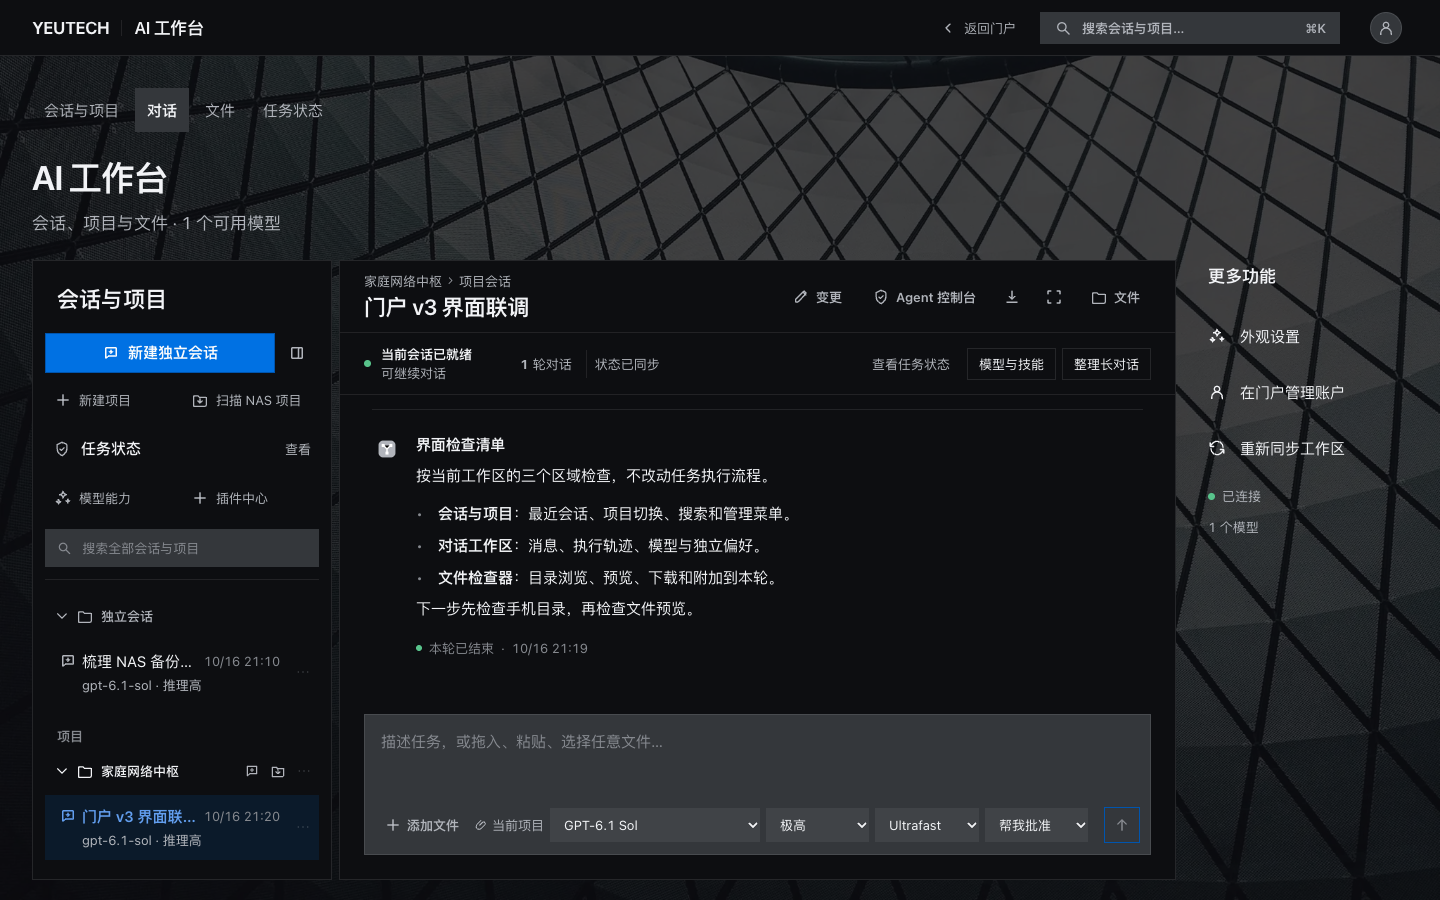
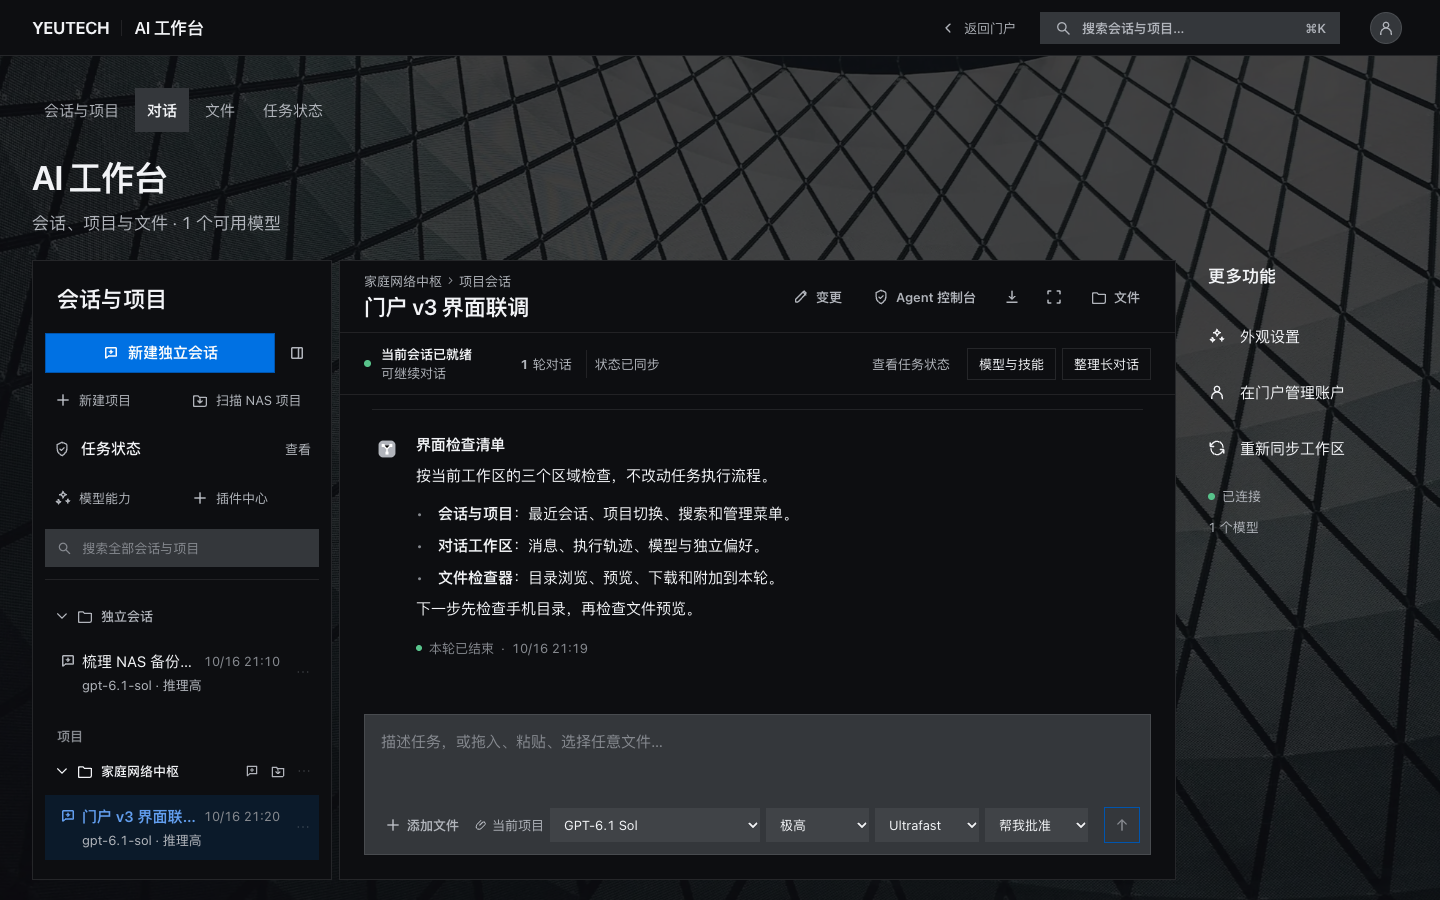
fix(app): match portal PageShell wallpaper treatment

diff --git a/deploy/yeutech-agent-isolated/web/src/styles/workspace-v33.css b/deploy/yeutech-agent-isolated/web/src/styles/workspace-v33.css
@@ -1,6 +1,6 @@
 /* v3.3 HomeWorkspaceShell geometry; canonical material definitions are read-only.
    Header=chrome; directory/conversation=sibling surface; inner rows=material/control. */
-.workspace-v33::before { display: block; }
+.workspace-v33::before { display: block; filter: blur(var(--yt-blur)) saturate(40%); transform: scale(1.04); }
 .workspace-v33 { overflow: clip; }
 .workspace-v33 .workspace { height: auto; min-height: 0; max-width: 2400px; padding: 32px; gap: 0; }
 .workspace-v33 .workbench-identity { position: sticky; top: 0; z-index: 30; min-height: 56px; padding: 0 32px; display: flex; align-items: center; justify-content: space-between; gap: 16px; border-bottom: 1px solid var(--yt-edge); background: var(--yt-layer-chrome); -webkit-backdrop-filter: var(--yt-filter-chrome); backdrop-filter: var(--yt-filter-chrome); box-shadow: none; }
@@ -108,3 +108,6 @@
 @media (prefers-reduced-transparency: reduce), (prefers-contrast: more) {
   .workspace-v33 :is(.workbench-identity, .sidebar, .conversation, .file-layer .file-panel) { background: var(--yt-layer-page); -webkit-backdrop-filter: none; backdrop-filter: none; }
 }
+
+/* Match the portal PageShell wallpaper accessibility override exactly. */
+@media (prefers-reduced-transparency: reduce) { .workspace-v33::before { filter: none; } }

diff --git a/docs/qa-v33/HANDOFF.md b/docs/qa-v33/HANDOFF.md
@@ -81,3 +81,10 @@ Browser plugin/skill not available；`agent-browser` CLI也未安装。按fronte
 
 ## 未验证
 真实生产登录/权限角色、真实模型/项目写入、NAS、真实断线重连、所有Office/PDF/图片内容、真机Safari与发布后资源/缓存均未验；原实现保留不等于这些验收已通过。没有部署、线上完成或作者采纳声明。
+
+## 补充核查：PageShell 壁纸（2026-10-16）
+- 复核门户`primitives.module.css`第2、57行发现：本服务首版只恢复了合同壁纸显示，缺少PageShell专有的滤镜/缩放覆写。
+- 仅在`workspace-v33.css`的page伪元素补齐`filter: blur(var(--yt-blur)) saturate(40%)`、`transform: scale(1.04)`，并在`prefers-reduced-transparency:reduce`下设`filter:none`；没有修改合同或业务。
+- 1440/2560/390实测默认`blur(14px) saturate(0.4)`、`matrix(1.04,0,0,1.04,0,0)`；减少透明度均为`none`。证据在`home-language-verification.json`的wallpaper/reducedWallpaperFilter字段。
+- 重建production并刷新全部主题/视口及边界截图、原浏览器交互回归通过；此补充未改业务，不重复跑不相干服务测试。
+- 账户菜单与辅助栏外观链接均已是`https://yeutech.cn/settings/?site=agent`，无需修改。
